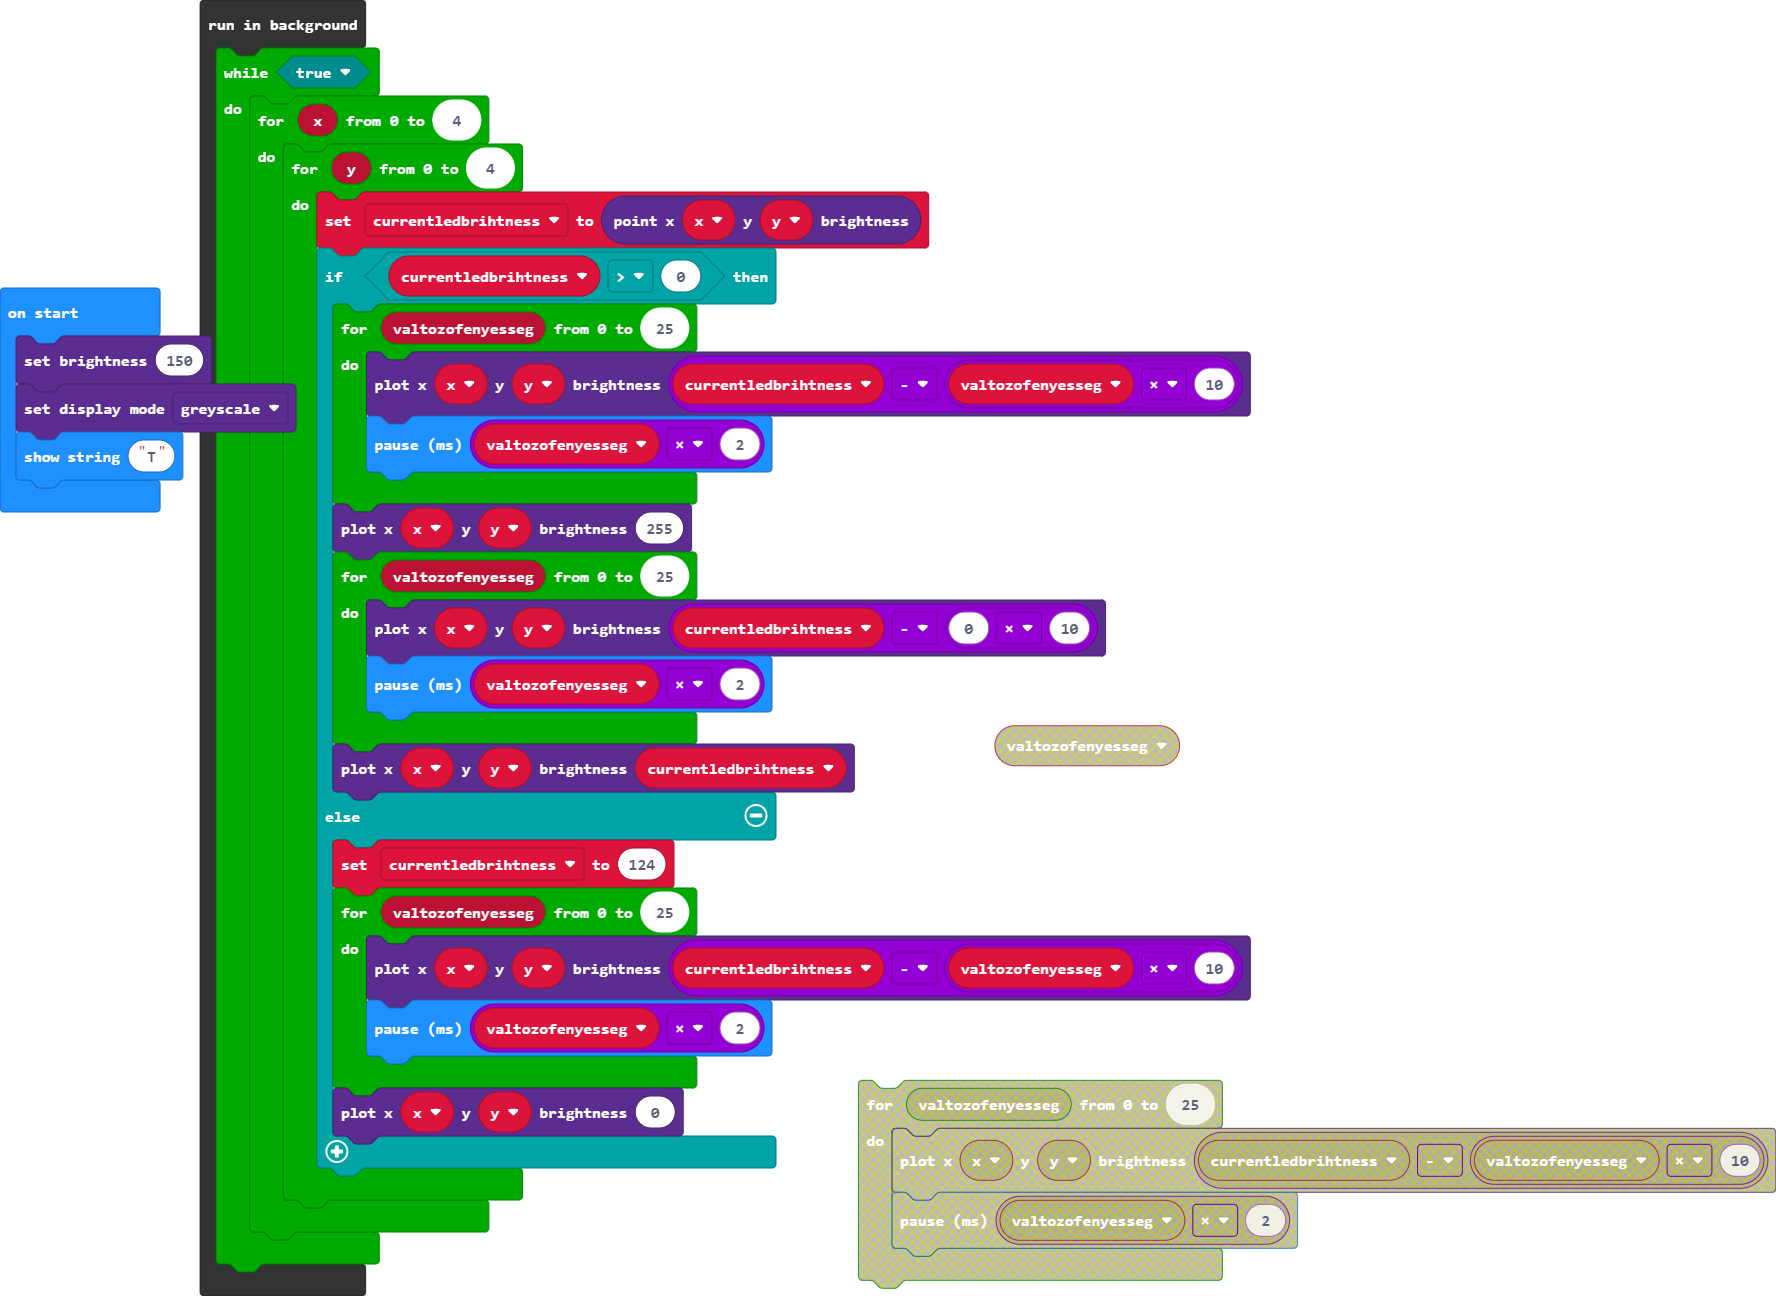
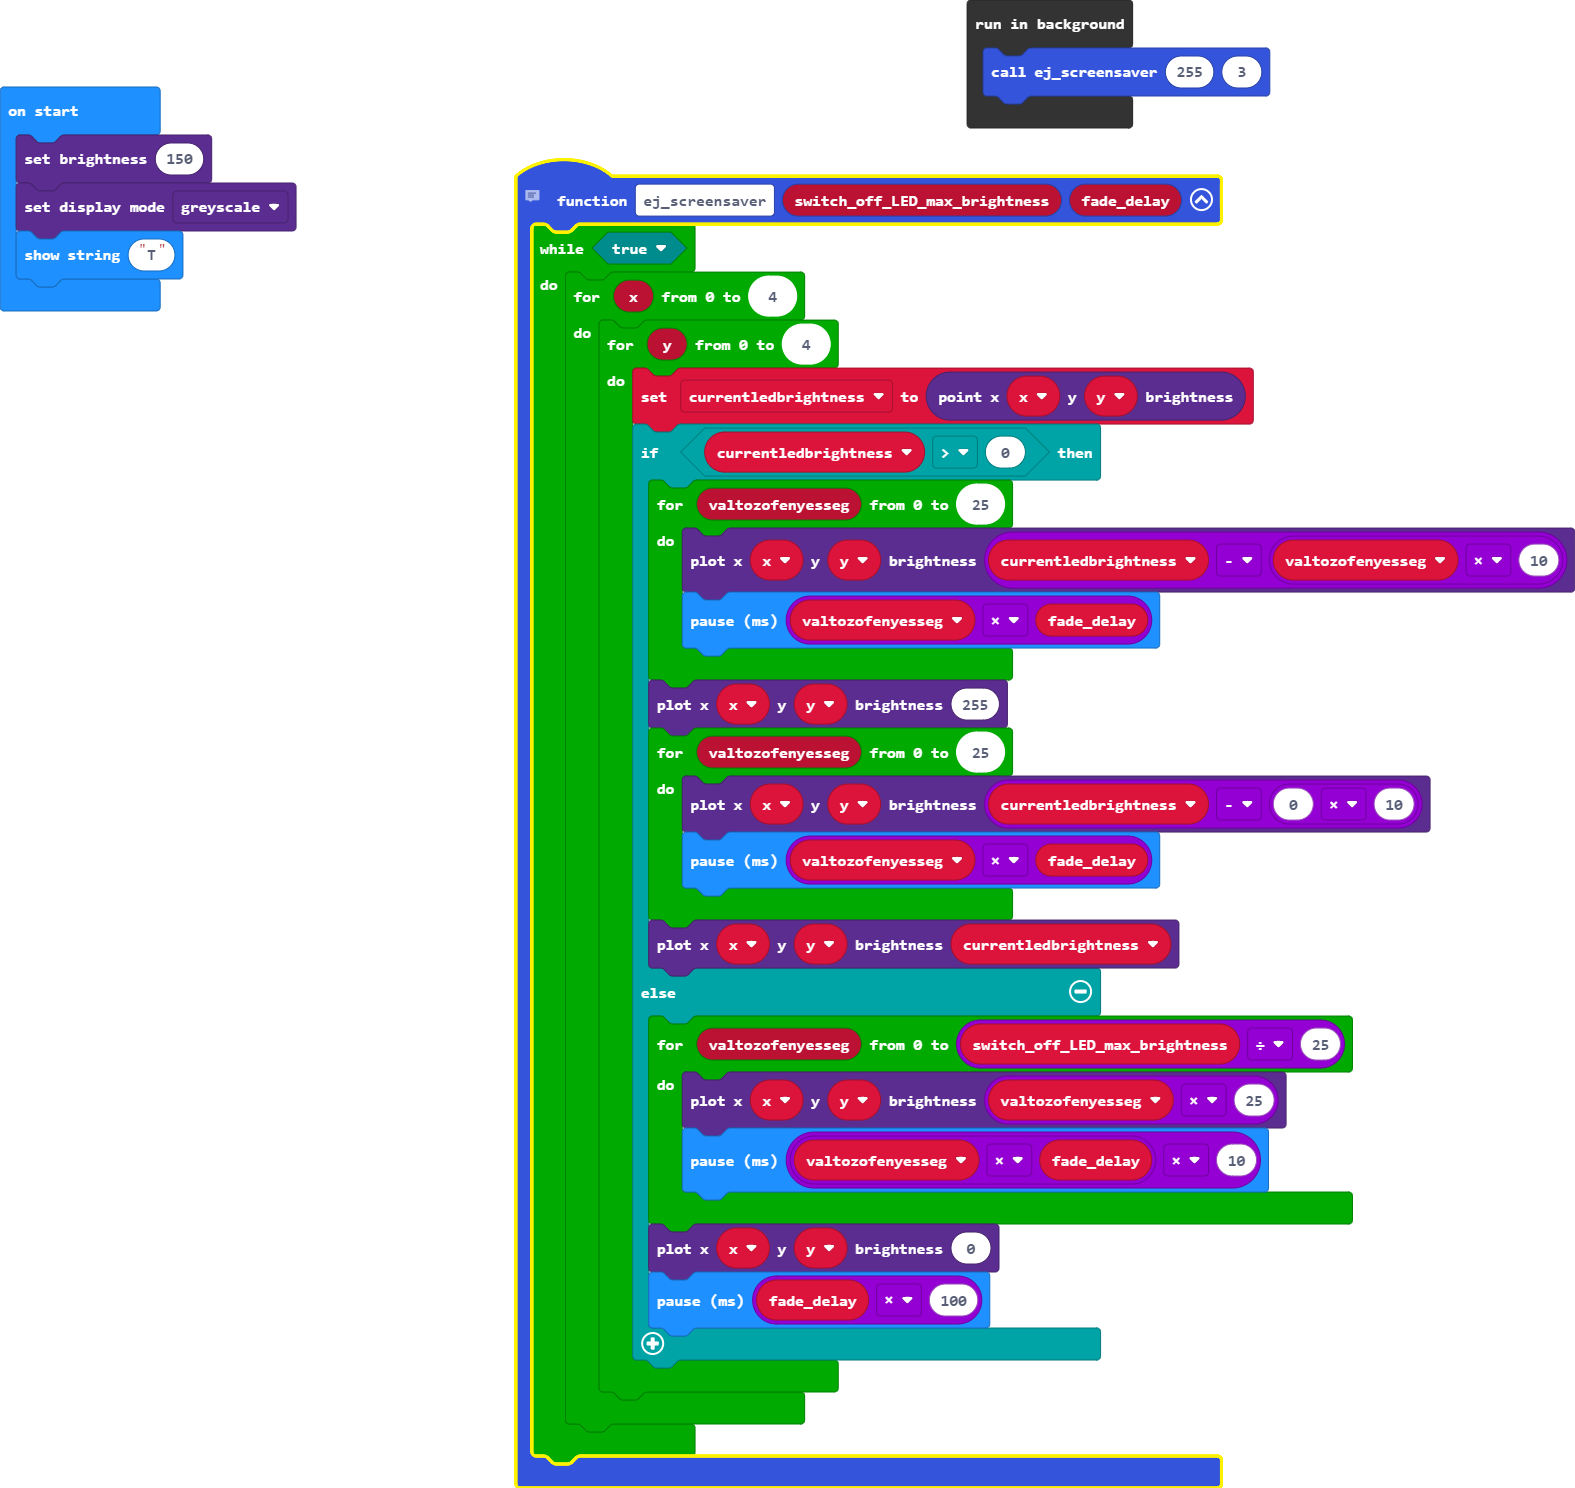
Update main.blocks, main.ts, main.py

diff --git a/main.ts b/main.ts
@@ -1,32 +1,37 @@
-let currentledbrihtness = 0
-led.setBrightness(150)
-led.setDisplayMode(DisplayMode.Greyscale)
-basic.showString("T")
-control.inBackground(function () {
+// Funcion call: ejscreensaver(n1,n2).
+// The function calls insert to "run in bacground" block.
+function ej_screensaver (switch_off_LED_max_brightness: number, fade_delay: number) {
     while (true) {
         for (let x = 0; x <= 4; x++) {
             for (let y = 0; y <= 4; y++) {
-                currentledbrihtness = led.pointBrightness(x, y)
-                if (currentledbrihtness > 0) {
+                currentledbrightness = led.pointBrightness(x, y)
+                if (currentledbrightness > 0) {
                     for (let valtozofenyesseg = 0; valtozofenyesseg <= 25; valtozofenyesseg++) {
-                        led.plotBrightness(x, y, currentledbrihtness - valtozofenyesseg * 10)
-                        basic.pause(valtozofenyesseg * 2)
+                        led.plotBrightness(x, y, currentledbrightness - valtozofenyesseg * 10)
+                        basic.pause(valtozofenyesseg * fade_delay)
                     }
                     led.plotBrightness(x, y, 255)
                     for (let valtozofenyesseg = 0; valtozofenyesseg <= 25; valtozofenyesseg++) {
-                        led.plotBrightness(x, y, currentledbrihtness - 0 * 10)
-                        basic.pause(valtozofenyesseg * 2)
+                        led.plotBrightness(x, y, currentledbrightness - 0 * 10)
+                        basic.pause(valtozofenyesseg * fade_delay)
                     }
-                    led.plotBrightness(x, y, currentledbrihtness)
+                    led.plotBrightness(x, y, currentledbrightness)
                 } else {
-                    currentledbrihtness = 124
-                    for (let valtozofenyesseg = 0; valtozofenyesseg <= 25; valtozofenyesseg++) {
-                        led.plotBrightness(x, y, currentledbrihtness - valtozofenyesseg * 10)
-                        basic.pause(valtozofenyesseg * 2)
+                    for (let valtozofenyesseg = 0; valtozofenyesseg <= switch_off_LED_max_brightness / 25; valtozofenyesseg++) {
+                        led.plotBrightness(x, y, valtozofenyesseg * 25)
+                        basic.pause(valtozofenyesseg * fade_delay * 10)
                     }
                     led.plotBrightness(x, y, 0)
+                    basic.pause(fade_delay * 100)
                 }
             }
         }
     }
+}
+let currentledbrightness = 0
+led.setBrightness(150)
+led.setDisplayMode(DisplayMode.Greyscale)
+basic.showString("T")
+control.inBackground(function () {
+    ej_screensaver(255, 3)
 })

diff --git a/main.py b/main.py
@@ -1,30 +1,25 @@
-currentledbrihtness = 0
-led.set_brightness(100)
-led.set_display_mode(DisplayMode.GREYSCALE)
-basic.show_string("W")
-
-def on_in_background():
+def ej_screensaver(switch_off_LED_max_brightness: number, fade_delay: number):
     global currentledbrihtness
     while True:
         for x in range(5):
             for y in range(5):
                 currentledbrihtness = led.point_brightness(x, y)
-                if currentledbrihtness > 10:
+                if currentledbrihtness > 0:
                     for valtozofenyesseg in range(26):
                         led.plot_brightness(x, y, currentledbrihtness - valtozofenyesseg * 10)
                         basic.pause(valtozofenyesseg * 2)
                     led.plot_brightness(x, y, 255)
                     for valtozofenyesseg2 in range(26):
-                        led.plot_brightness(x, y, currentledbrihtness - valtozofenyesseg2 * 10)
+                        led.plot_brightness(x, y, currentledbrihtness - 0 * 10)
                         basic.pause(valtozofenyesseg2 * 2)
                     led.plot_brightness(x, y, currentledbrihtness)
                 else:
-                    currentledbrihtness = 124
-                    for valtozofenyesseg3 in range(26):
-                        led.plot_brightness(x, y, currentledbrihtness - valtozofenyesseg3 * 10)
-                        basic.pause(valtozofenyesseg3 * 2)
-                    for valtozofenyesseg4 in range(26):
-                        led.plot_brightness(x, y, currentledbrihtness - valtozofenyesseg4 * 1)
-                        basic.pause(valtozofenyesseg4 * 2)
-                    led.plot_brightness(x, y, 0)
+                    pass
+currentledbrihtness = 0
+led.set_brightness(150)
+led.set_display_mode(DisplayMode.GREYSCALE)
+basic.show_string("T")
+
+def on_in_background():
+    ej_screensaver(255, 10)
 control.in_background(on_in_background)
